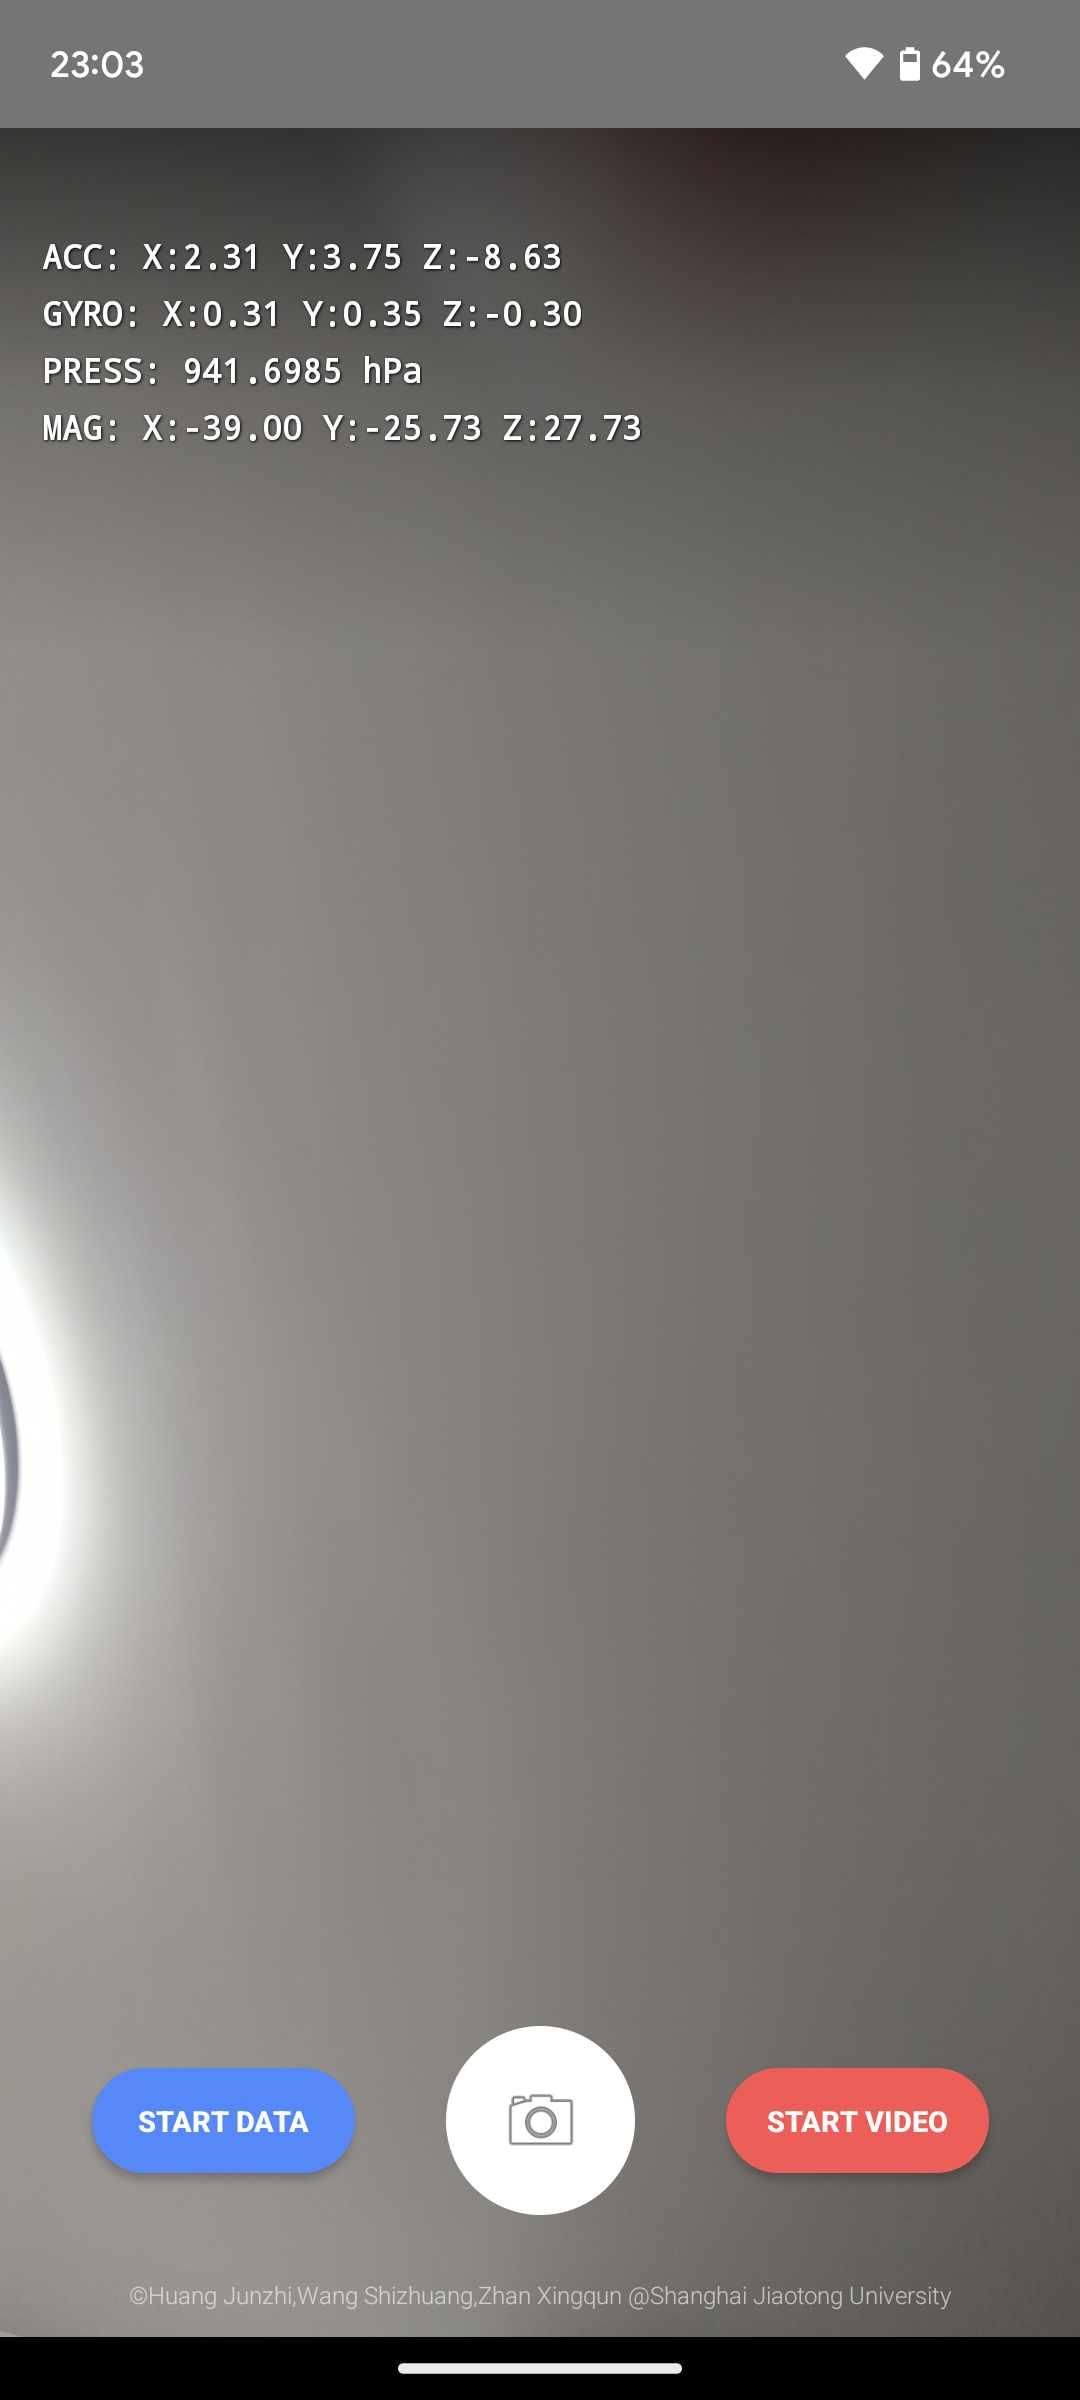
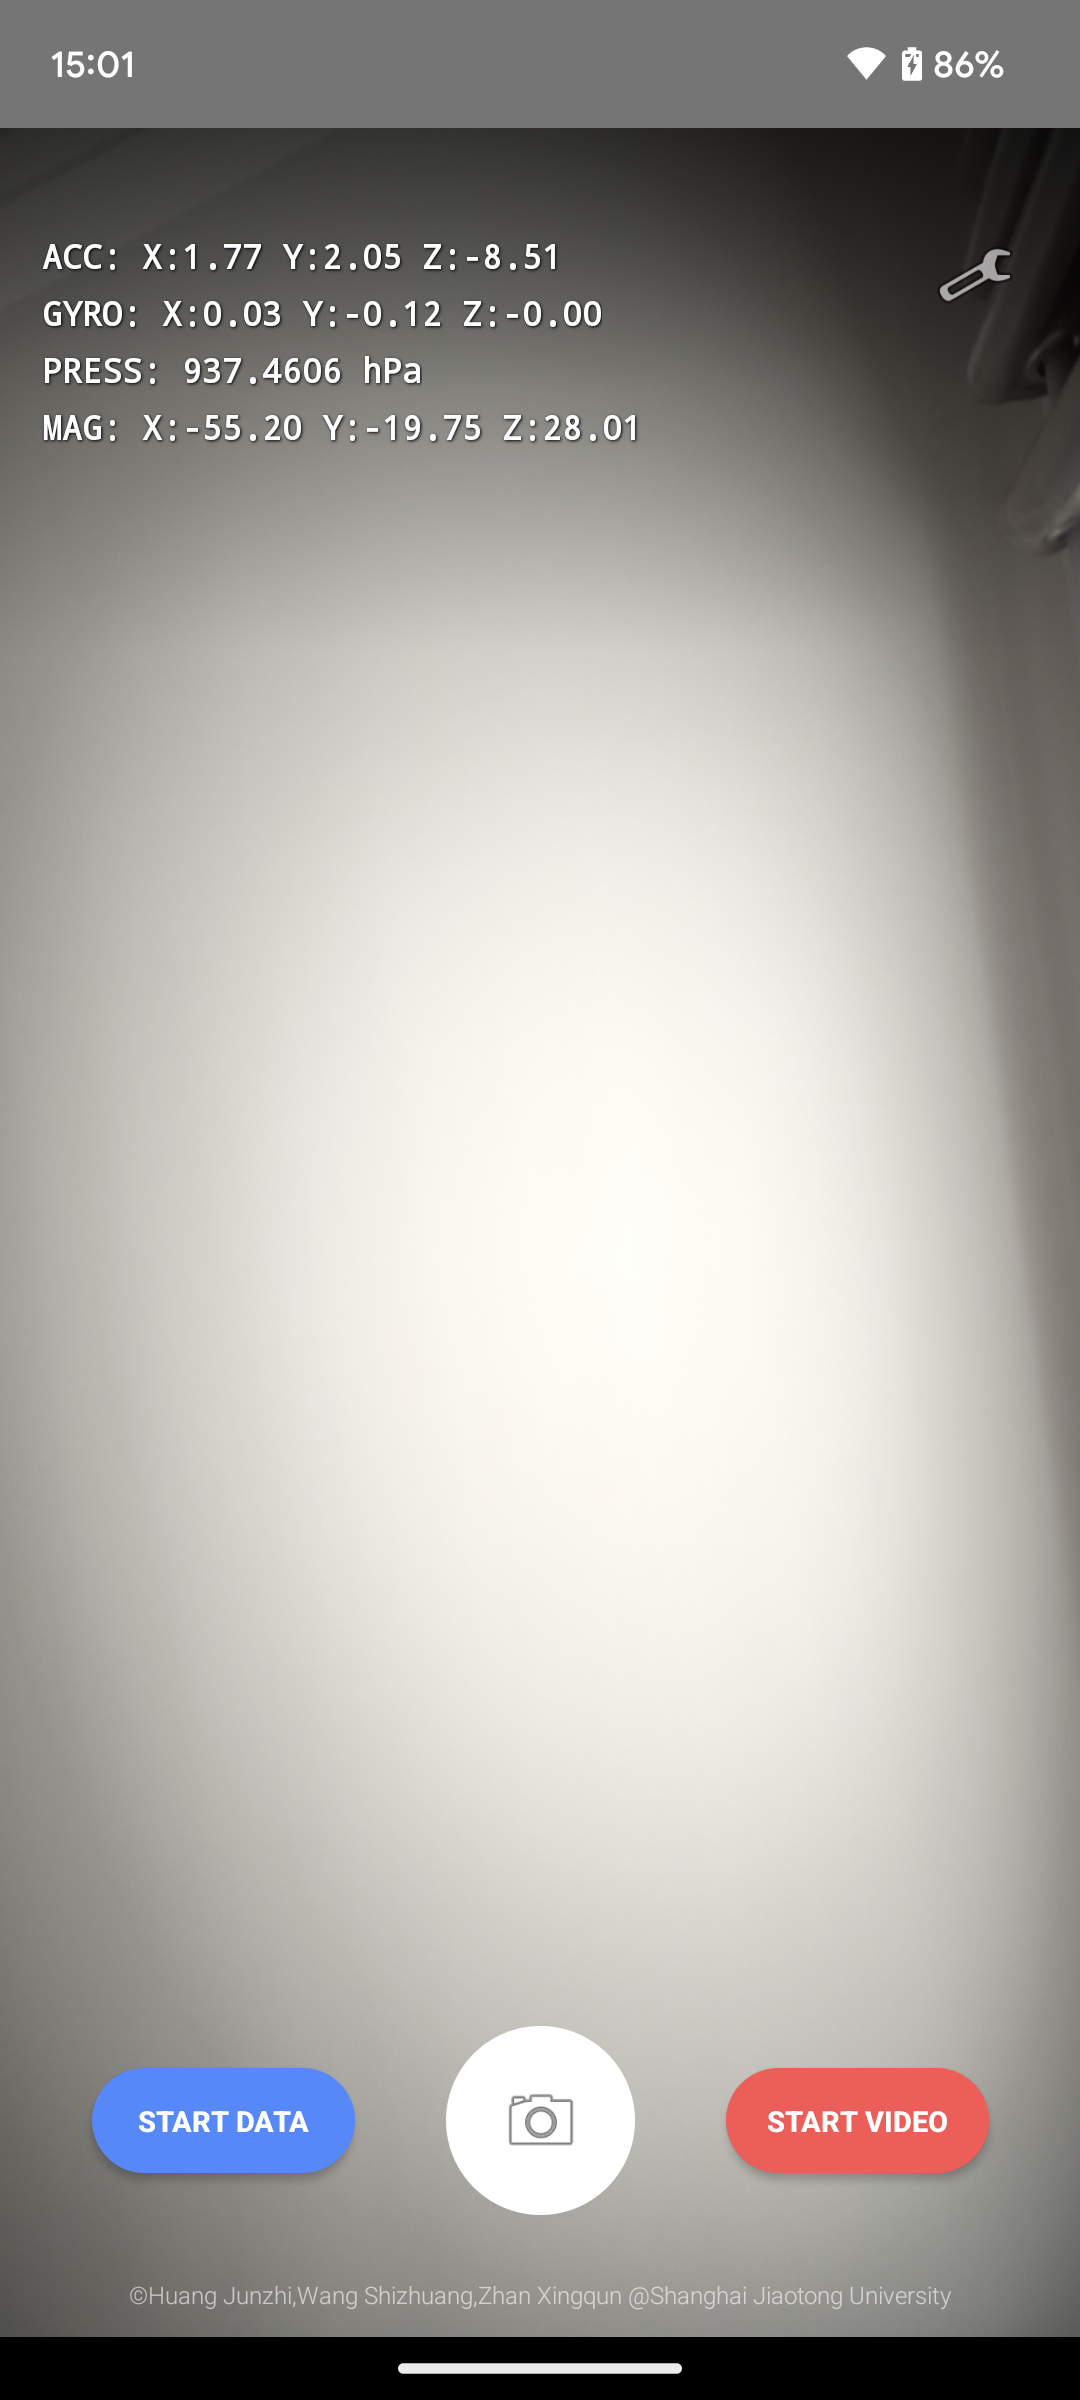
update readme

diff --git a/README.md b/README.md
@@ -8,7 +8,7 @@ This tool integrates the **Android Camera2 API** with multiple onboard IMU senso
 
 ---
 
-## 📱 User Interface
+## User Interface
 
 <img src="assets/app_interface.png" alt="app_interface" style="zoom: 25%;" />
 
@@ -22,10 +22,29 @@ The application interface is designed for simplicity and real-time monitoring:
     *   Captures a high-resolution still image and saves it to the system Gallery.
 4.  **START VIDEO (Red Button):**
     *   Begins video recording. This  triggers the logging of frame-level metadata.
+## Settings Interface
+
+<img src="assets/settings_interface.png" alt="settings_interface" style="zoom:25%;" />
+
+### Camera Settings
+
+- **Target FPS:** Select between 15, 30, or 60 FPS.
+  - *⚠ Note on 60 FPS:* To achieve a stable 60 FPS, the **Exposure Time must be set lower than 8ms (< 8,000,000 ns)** in Manual Exposure mode. If the exposure is too long (e.g., default 15ms), the hardware readout latency will force the system to fallback to 30 FPS.
+- **Focus Mode:** Toggle between **Continuous Auto Focus** and **Manual Focus** (Locked at 0.0f/Infinity). Manual focus is recommended for SLAM to prevent focal length changes (breathing effect).
+- **Exposure Mode:** Toggle between **Auto** and **Manual**.
+- **Manual Parameters:**
+  - **Exposure Time (ns):** Set absolute exposure duration in nanoseconds (e.g., 10000000 for 10ms). Short exposure reduces motion blur.
+  - **ISO Sensitivity:** Manually set ISO (e.g., 800) to balance brightness when using short exposure times.
+
+### Sensor Frequencies
+
+- **Adjustable Sensors:** Set sampling rates (Fastest, Game, UI, Normal) for Accelerometer, Magnetometer, and Barometer.
+- **Gyroscope (Fixed):** The Gyroscope frequency is **locked to FASTEST (~200Hz+)**.
+  - *Reason:* When the Camera is active, the Android hardware abstraction layer (HAL) reserves high-frequency gyro data for OIS/EIS stabilization, overriding application-level frequency requests.
 
 ---
 
-## 👥 Authors
+## Authors
 
 **黄俊植（Junzhi Huang）** – Shanghai Jiao Tong University — （Email: biscu0@sjtu.edu.cn）
 
@@ -33,7 +52,7 @@ The application interface is designed for simplicity and real-time monitoring:
 
 ---
 
-## ✨ Features
+## Features
 
 - **Advanced Camera2 API Integration**
     - Records video (H.264/MP4) with configurable parameters.
@@ -62,7 +81,7 @@ The application interface is designed for simplicity and real-time monitoring:
 
 ---
 
-## 📂 Project Structure
+## Project Structure
 
 ```text
 /app
@@ -79,7 +98,7 @@ The application interface is designed for simplicity and real-time monitoring:
 
 ---
 
-## 📊 Data Output Format
+## Data Output Format
 
 The application generates the following files during recording:
 
@@ -172,7 +191,7 @@ Timestamp,Value
 
 
 
-## 🛠 Requirements
+## Requirements
 
 - **Android Studio** (Flamingo or later recommended)
 - **Android SDK Platform 33** (Compile SDK)
@@ -181,7 +200,7 @@ Timestamp,Value
 
 ---
 
-## 🚀 Getting Started
+## Getting Started
 
 ### 1. Clone the repository
 ```bash
@@ -195,7 +214,7 @@ git clone https://github.com/HuangJZh/MobileDataCaptureKit.git
 ### 3. Build & Run
 1. Connect an Android device via USB.
 2. Ensure "Developer Options" and "USB Debugging" are enabled on the phone.
-3. Click **Run ▶** in Android Studio.
+3. Click **Run * in Android Studio.
 
 ### 4. Permissions
 Upon the first launch, grant the following permissions:
@@ -205,6 +224,6 @@ Upon the first launch, grant the following permissions:
 
 ---
 
-## 📝 License
+## License
 
 This project is open-source and available for research and educational purposes.
